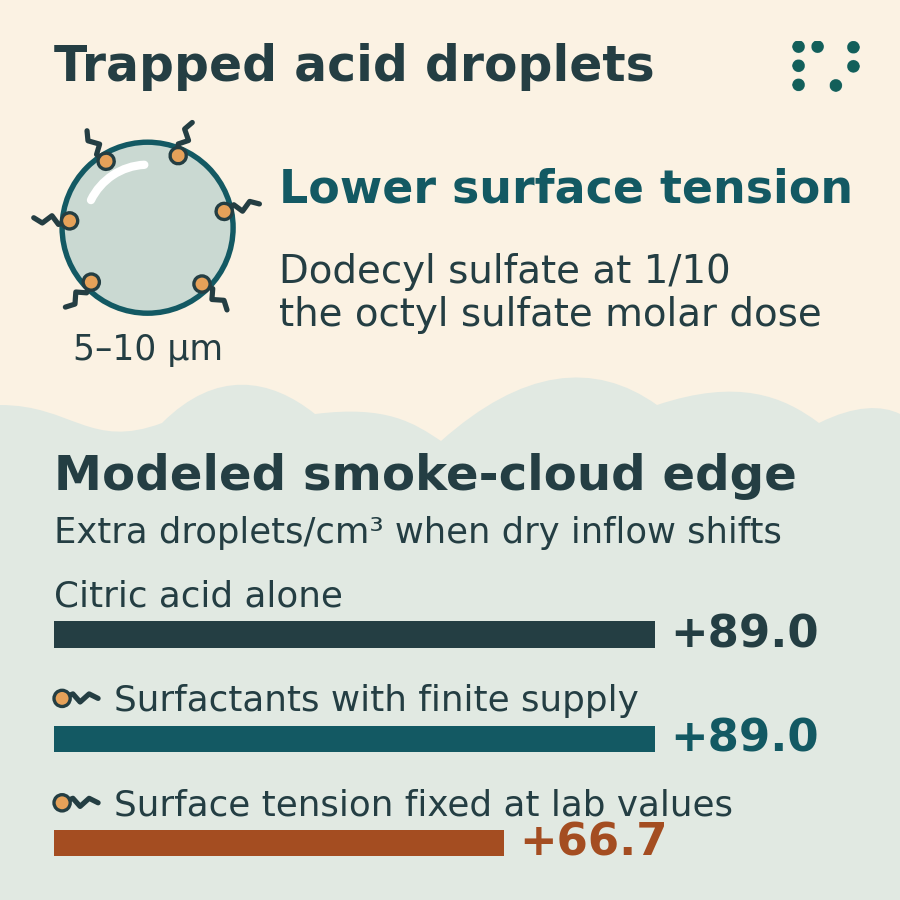
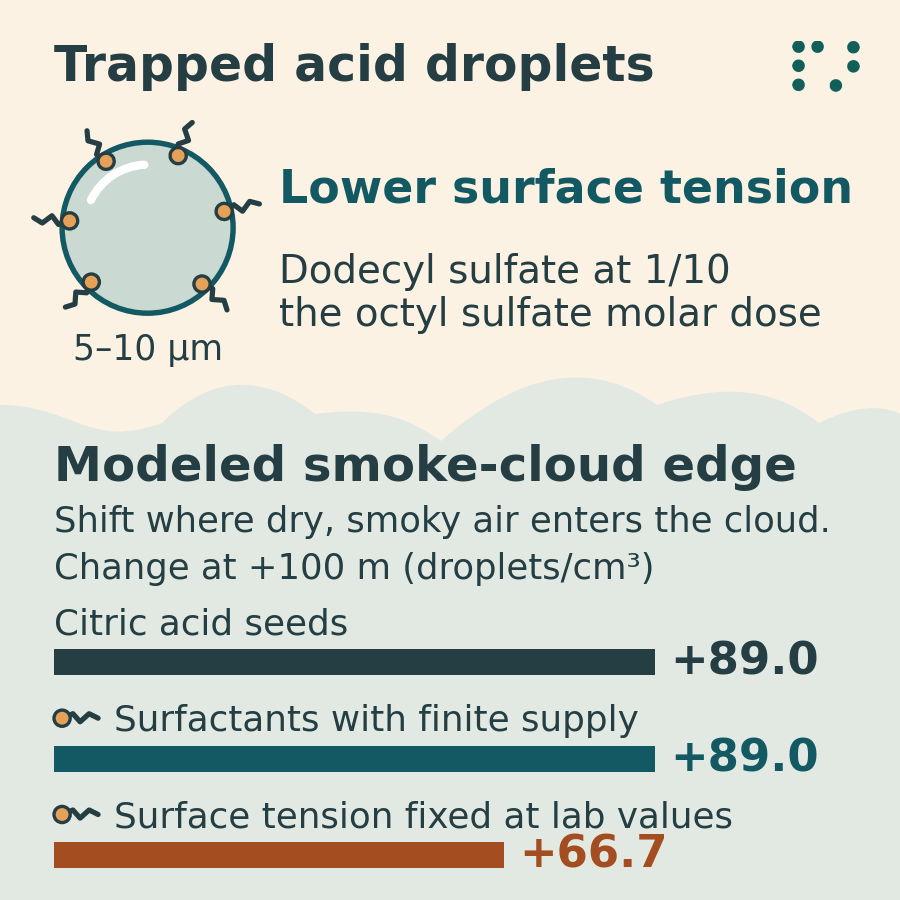
Clarify the two entrainment locations in the cloud-edge graphical abstract

Changed region(s): [[0.0622, 0.4978, 0.9333, 0.9644]]

diff --git a/studies/cloud-edge-surfactants/figures/toc.py b/studies/cloud-edge-surfactants/figures/toc.py
@@ -126,15 +126,19 @@ def render():
         )
         ax.add_patch(PathPatch(edge, facecolor="#E1E9E2", edgecolor="none"))
         ax.text(
-            0.06, 0.455, "Modeled smoke-cloud edge", size=11.6, weight="bold"
+            0.06, 0.466, "Modeled smoke-cloud edge", size=11.6, weight="bold"
         )
         ax.text(
-            0.06, 0.397, "Extra droplets/cm³ when dry inflow shifts", size=8.5
+            0.06,
+            0.409,
+            "Shift where dry, smoky air enters the cloud.",
+            size=8.5,
         )
+        ax.text(0.06, 0.357, "Change at +100 m (droplets/cm³)", size=8.5)
         for y, control, label, color in (
-            (0.303, "acid", "Citric acid alone", INK),
-            (0.187, "finite", "Surfactants with finite supply", TEAL),
-            (0.071, "fixed70", "Surface tension fixed at lab values", RUST),
+            (0.272, "acid", "Citric acid seeds", INK),
+            (0.165, "finite", "Surfactants with finite supply", TEAL),
+            (0.058, "fixed70", "Surface tension fixed at lab values", RUST),
         ):
             gain = gains[control]
             label_x = 0.06

diff --git a/docs/studies/literature/cloud-edge-surfactants/index.md b/docs/studies/literature/cloud-edge-surfactants/index.md
@@ -1,10 +1,10 @@
 # Two surfactants lower surface tension yet scarcely change droplet counts at a simulated smoke-cloud edge
 
-![Head-and-tail symbols on the droplet surface also mark the two cloud-model cases containing surfactant. Dodecyl sulfate lowered surface tension more than octyl sulfate at one tenth the molar dose. Shifting dry inflow in the simulated smoke cloud added 89.0 droplets/cm³ for both matched acid and finite surfactant supply, and 66.7/cm³ with surface tension fixed at the measured laboratory values.](../../../images/cloud-edge-surfactants/toc.png)
+![Head-and-tail symbols on the droplet surface also mark the two cloud-model cases containing surfactant. Dodecyl sulfate lowered surface tension more than octyl sulfate at one tenth the molar dose. Moving where dry, smoky air entered the cloud increased the total at 100 m above cloud base by 89.0 droplets/cm³ with matched acid seeds or finite surfactant supply, and by 66.7/cm³ with surface tension fixed at the laboratory values.](../../../images/cloud-edge-surfactants/toc.png)
 
 A tenfold smaller molar dose of sodium dodecyl sulfate lowered the surface tension of a micrometre citric-acid droplet more than sodium octyl sulfate did. Would the stronger surfactant also produce more cloud droplets? We followed both recipes into simulated rising air, where condensing water diluted their contents and neighboring particles competed for the same vapor. In weak marine ascent, 89 droplets/cm³ formed on the added seeds. The seeds raised total droplet number by 80/cm³, and the surfactants accounted for an estimated 0.20/cm³ relative to the same number of pure citric-acid seeds. At a simulated smoke-cloud edge, shifting the position of a dry-air intrusion increased droplet number by **89.0/cm³** with either the surfactant recipes or matched acid. Holding surface tension at the values measured in concentrated droplets throughout growth gave **66.7/cm³**. The treatment of dilution changed the predicted response to dry air and the identities of the seeds that activated. [Shahabadi et al., original measurements](https://doi.org/10.5194/acp-25-14301-2025)
 
-*The symbols show surfactant molecules schematically, with the sulfate heads in the droplet and the alkyl tails pointing into the air. The same symbol marks both surfactant treatments below. The bars show the change in droplet number 100 m above cloud base when the dry inflow moves. The two seed recipes compete in the same parcel. Each response is the difference between inlet-flux-weighted means for the two placements.*
+*The symbols show surfactant molecules schematically, with the sulfate heads in the droplet and the alkyl tails pointing into the air. The same symbol marks both surfactant treatments below. Both placements entrain dry, smoke-bearing air at 50 m above cloud base. The bars compare total droplet concentrations at 100 m, weighted by incoming air flux. With finite surfactant supply, smoke particles accounted for 79.6 of the 89.0 additional droplets/cm³ and the two surfactant recipes accounted for 9.4. The total includes particles that could activate after mixing, so survival of pre-existing droplets is a separate question.*
 
 ## Why a better surfactant can lose its advantage as a seed grows
 

diff --git a/docs/studies/literature/index.md b/docs/studies/literature/index.md
@@ -51,7 +51,7 @@ Modeled convection supplies only a third of the heat needed for the reported pen
 
 <div class="study-figures">
 
-[![Head-and-tail symbols on the droplet surface also mark the two cloud-model cases containing surfactant. Dodecyl sulfate lowered surface tension more than octyl sulfate at one tenth the molar dose. Shifting dry inflow in the simulated smoke cloud added 89.0 droplets/cm³ for both matched acid and finite surfactant supply, and 66.7/cm³ with surface tension fixed at the measured laboratory values.](../../images/cloud-edge-surfactants/toc.png)\
+[![Head-and-tail symbols on the droplet surface also mark the two cloud-model cases containing surfactant. Dodecyl sulfate lowered surface tension more than octyl sulfate at one tenth the molar dose. Moving where dry, smoky air entered the cloud increased the total at 100 m above cloud base by 89.0 droplets/cm³ with matched acid seeds or finite surfactant supply, and by 66.7/cm³ with surface tension fixed at the laboratory values.](../../images/cloud-edge-surfactants/toc.png)\
 Two surfactants lower surface tension yet scarcely change droplet counts at a simulated smoke-cloud edge](cloud-edge-surfactants/index.md)
 
 [![Pallas fits place 9.8% salt at 50 nm and 49.6% at 120 nm.](../../images/pallas-activation/salt-toc.png)\
